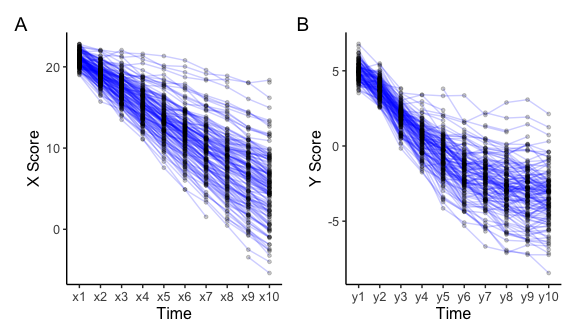
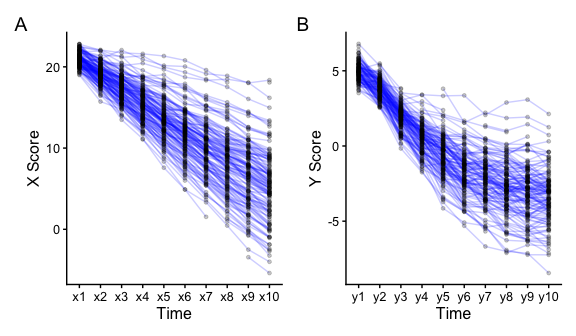
Prepare for CRAN submission

diff --git a/README.md b/README.md
@@ -17,7 +17,7 @@ univariate and bivariate latent change score models (LCSM) using
 method see for example McArdle
 ([2009](https://pubmed.ncbi.nlm.nih.gov/18817479/)), Ghisletta
 ([2012](https://pubmed.ncbi.nlm.nih.gov/25505366/)), Grimm et
-al. ([2012](https://www.ncbi.nlm.nih.gov/pmc/articles/PMC3638891/)), and
+al. ([2012](https://pmc.ncbi.nlm.nih.gov/articles/PMC3638891/)), and
 Grimm, Ram & Estabrook
 ([2017](https://www.guilford.com/books/Growth-Modeling/Grimm-Ram-Estabrook/9781462526062)).
 
@@ -84,10 +84,9 @@ Here are a few examples how to use the `lcsm` package.
 ``` r
 # Load the package
 library(lcsm)
-#> 
-#> ── This is lcsm 0.3.1 ──────────────────────────────────────────────────────────
-#> ℹ Please report any issues or ideas at:
-#> ℹ https://github.com/milanwiedemann/lcsm/issues
+#> This is lcsm 0.3.3
+#> Please report any issues or ideas at:
+#> https://github.com/milanwiedemann/lcsm/issues
 #> 
 ```
 
@@ -120,13 +119,17 @@ plot_y <- plot_trajectories(data = data_bi_lcsm,
 # Arrange plots next to each other using patchwork
 library(patchwork)
 plot_x + plot_y + plot_annotation(tag_levels = 'A')
-#> Warning: Removed 18 rows containing missing values (`geom_line()`).
-#> Warning: Removed 85 rows containing missing values (`geom_point()`).
-#> Warning: Removed 37 rows containing missing values (`geom_line()`).
-#> Warning: Removed 172 rows containing missing values (`geom_point()`).
+#> Warning: Removed 18 rows containing missing values or values outside the scale range
+#> (`geom_line()`).
+#> Warning: Removed 85 rows containing missing values or values outside the scale range
+#> (`geom_point()`).
+#> Warning: Removed 37 rows containing missing values or values outside the scale range
+#> (`geom_line()`).
+#> Warning: Removed 172 rows containing missing values or values outside the scale range
+#> (`geom_point()`).
 ```
 
-<img src="man/figures/README-unnamed-chunk-3-1.png" width="100%" />
+<img src="man/figures/README-unnamed-chunk-3-1.png" alt="" width="100%" />
 
 ### Fit LCSMs
 
@@ -162,9 +165,12 @@ specify_uni_lcsm(timepoints = 5,
 ```
 
 <details>
+
 <summary>
+
 Click here to see the <code>lavaan</code> syntax specified above.
 </summary>
+
 <p>
 
     # Specify latent true scores 
@@ -236,6 +242,7 @@ Click here to see the <code>lavaan</code> syntax specified above.
     dx5 ~ phi_x * dx4 
 
 </p>
+
 </details>
 
 The function `fit_uni_lcsm()` can be used to fit a univariate LCSM using
@@ -251,7 +258,7 @@ fit_uni_lcsm(data = data_uni_lcsm,
              model = list(alpha_constant = TRUE, 
                           beta = FALSE, 
                           phi = TRUE))
-#> lavaan 0.6.13 ended normally after 67 iterations
+#> lavaan 0.7-2 ended normally after 67 iterations
 #> 
 #>   Estimator                                         ML
 #>   Optimization method                           NLMINB
@@ -293,9 +300,12 @@ cat(syntax)
 ```
 
 <details>
+
 <summary>
+
 Click here to see the lavaan syntax specified in <code>syntax</code>.
 </summary>
+
 <p>
 
     # Specify latent true scores 
@@ -412,6 +422,7 @@ Click here to see the lavaan syntax specified in <code>syntax</code>.
     dx10 ~ phi_x * dx9 
 
 </p>
+
 </details>
 
 #### Fit bivariate LCSMs
@@ -421,18 +432,18 @@ using the arguments `model_x` and `model_x`. These two constructs can
 then be connected using the `coupling` argument. More details can be
 found in the help files `help(fit_bi_lcsm)`.
 
-| Coupling specification | Description                                           |
-|:-----------------------|:------------------------------------------------------|
-| coupling_piecewise     | Piecewise coupling parameters                         |
-| coupling_piecewise_num | Changepoint of piecewise coupling parameters          |
-| delta_con_xy           | Change score x (t) determined by true score y (t)     |
-| delta_con_yx           | Change score y (t) determined by true score x (t)     |
-| delta_lag_xy           | Change score x (t) determined by true score y (t-1)   |
-| delta_lag_yx           | Change score y (t) determined by true score x (t-1)   |
-| xi_con_xy              | Change score x (t) determined by change score y (t)   |
-| xi_con_yx              | Change score y (t) determined by change score x (t)   |
-| xi_lag_xy              | Change score x (t) determined by change score y (t-1) |
-| xi_lag_yx              | Change score y (t) determined by change score x (t-1) |
+| Coupling specification | Description |
+|:---|:---|
+| coupling_piecewise | Piecewise coupling parameters |
+| coupling_piecewise_num | Changepoint of piecewise coupling parameters |
+| delta_con_xy | Change score x (t) determined by true score y (t) |
+| delta_con_yx | Change score y (t) determined by true score x (t) |
+| delta_lag_xy | Change score x (t) determined by true score y (t-1) |
+| delta_lag_yx | Change score y (t) determined by true score x (t-1) |
+| xi_con_xy | Change score x (t) determined by change score y (t) |
+| xi_con_yx | Change score y (t) determined by change score x (t) |
+| xi_lag_xy | Change score x (t) determined by change score y (t-1) |
+| xi_lag_yx | Change score y (t) determined by change score x (t-1) |
 
 ``` r
 fit_bi_lcsm(data = data_bi_lcsm, 
@@ -448,7 +459,7 @@ fit_bi_lcsm(data = data_bi_lcsm,
                            phi = TRUE),
             coupling = list(delta_lag_xy = TRUE, 
                             xi_lag_yx = TRUE))
-#> lavaan 0.6.13 ended normally after 114 iterations
+#> lavaan 0.7-2 ended normally after 116 iterations
 #> 
 #>   Estimator                                         ML
 #>   Optimization method                           NLMINB
@@ -557,7 +568,7 @@ Further arguments can be passed on to `semPlot::semPaths()`, for
 example:
 
 - `what`, **“path”** to show unweighted gray edges, **“par”** to show
-  parameter estimates as weighted (green/red) edges  
+  parameter estimates as weighted (green/red) edges\
 - `whatLabels`, **“label”** to show edege names as label or **“est”**
   for parameter estimates, **“hide”** to hide edge labels
 
@@ -571,8 +582,8 @@ uni_lavaan_results <- fit_uni_lcsm(data = data_uni_lcsm,
                                                 beta = TRUE, 
                                                 phi = TRUE)
                                   )
-#> Warning in lav_data_full(data = data, group = group, cluster = cluster, : lavaan WARNING: some cases are empty and will be ignored:
-#>   239
+#> Warning: lavaan->lav_data_full():  
+#>    some cases are empty and will be ignored: 239.
 
 # Save the lavaan syntax that is used to create the layout matrix for semPlot
 uni_lavaan_syntax <- fit_uni_lcsm(data = data_uni_lcsm, 
@@ -590,7 +601,7 @@ plot_lcsm(lavaan_object = uni_lavaan_results,
           lcsm = "univariate")
 ```
 
-<img src="man/figures/README-unnamed-chunk-9-1.png" width="100%" />
+<img src="man/figures/README-unnamed-chunk-9-1.png" alt="" width="100%" />
 
 #### Bivariate LCSM
 
@@ -630,7 +641,7 @@ plot_lcsm(lavaan_object = bi_lavaan_results,
           lcsm = "bivariate")
 ```
 
-<img src="man/figures/README-unnamed-chunk-10-1.png" width="100%" />
+<img src="man/figures/README-unnamed-chunk-10-1.png" alt="" width="100%" />
 
 ### Simulate data
 
@@ -660,17 +671,17 @@ sim_uni_lcsm(timepoints = 5,
 #> # A tibble: 1,000 × 6
 #>       id    x1    x2    x3    x4    x5
 #>    <int> <dbl> <dbl> <dbl> <dbl> <dbl>
-#>  1     1  21.8  20.4  18.0  15.3  NA  
-#>  2     2  22.5  22.7  NA    19.0  NA  
-#>  3     3  22.3  21.4  20.5  18.8  18.5
-#>  4     4  NA    NA    21.9  25.0  25.9
-#>  5     5  18.8  18.4  18.9  18.8  NA  
-#>  6     6  20.0  19.1  17.1  15.5  13.8
-#>  7     7  20.1  18.6  16.9  NA    NA  
-#>  8     8  22.3  23.2  22.6  23.6  25.3
-#>  9     9  18.7  NA    19.3  19.5  19.8
-#> 10    10  NA    22.3  NA    22.2  22.4
-#> # … with 990 more rows
+#>  1     1  20.0  NA    NA    18.0  16.4
+#>  2     2  20.0  19.9  18.1  17.4  NA  
+#>  3     3  19.6  17.5  NA    13.0  10.9
+#>  4     4  20.9  NA    NA    18.6  19.4
+#>  5     5  20.7  NA    22.5  23.5  24.0
+#>  6     6  21.2  20.6  21.2  20.7  20.5
+#>  7     7  20.3  NA    NA    NA    24.2
+#>  8     8  20.6  21.3  23.6  25.8  NA  
+#>  9     9  21.7  NA    20.1  19.9  NA  
+#> 10    10  NA    22.4  NA    23.8  24.2
+#> # ℹ 990 more rows
 ```
 
 It is also possible to return the lavaan syntax instead of simulating
@@ -710,9 +721,12 @@ simsyntax <- sim_bi_lcsm(timepoints = 5,
 ```
 
 <details>
+
 <summary>
+
 Click here to see the lavaan syntax specified in <code>simsyntax</code>.
 </summary>
+
 <p>
 
     # Specify parameters for construct x ----
@@ -874,4 +888,5 @@ Click here to see the lavaan syntax specified in <code>simsyntax</code>.
     dy5 ~ 0.4 * dx4 
 
 </p>
+
 </details>

diff --git a/cran-comments.md b/cran-comments.md
@@ -1,12 +1,23 @@
 # Test environments
-## local 
-* macOS Monterey 12.6.3
-* R version 4.2.2 (2022-10-31)
+## local
+* macOS 15.7.7
+* R version 4.6.1 (2026-06-24)
 
 ## R CMD check results
-* There were no ERRORs or WARNINGs, or NOTES 
+0 errors | 0 warnings | 1 note
+
+* checking CRAN incoming feasibility ... NOTE
+  Found the following (possibly) invalid DOIs:
+    DOI: 10.1080/10705511.2012.713275
+  This DOI is valid and resolves correctly (https://doi.org/10.1080/10705511.2012.713275).
+
+## Reverse dependencies
+There are no reverse dependencies.
 
 ## Resubmission
-This is a resubmission.
-This fix allows to suppress the package startup message.
+This is a resubmission to fix an issue #30 holding up a release of the lavaan R package:
+lavaan >= 0.7-1 changed how it generates random data internally, which caused
+sim_uni_lcsm() and sim_bi_lcsm() to produce different simulated values depending on which
+lavaan version was installed. This release passes mass = TRUE to lavaan::simulateData()
+when lavaan >= 0.7-1 is installed, so results stay the same across lavaan versions.
 
